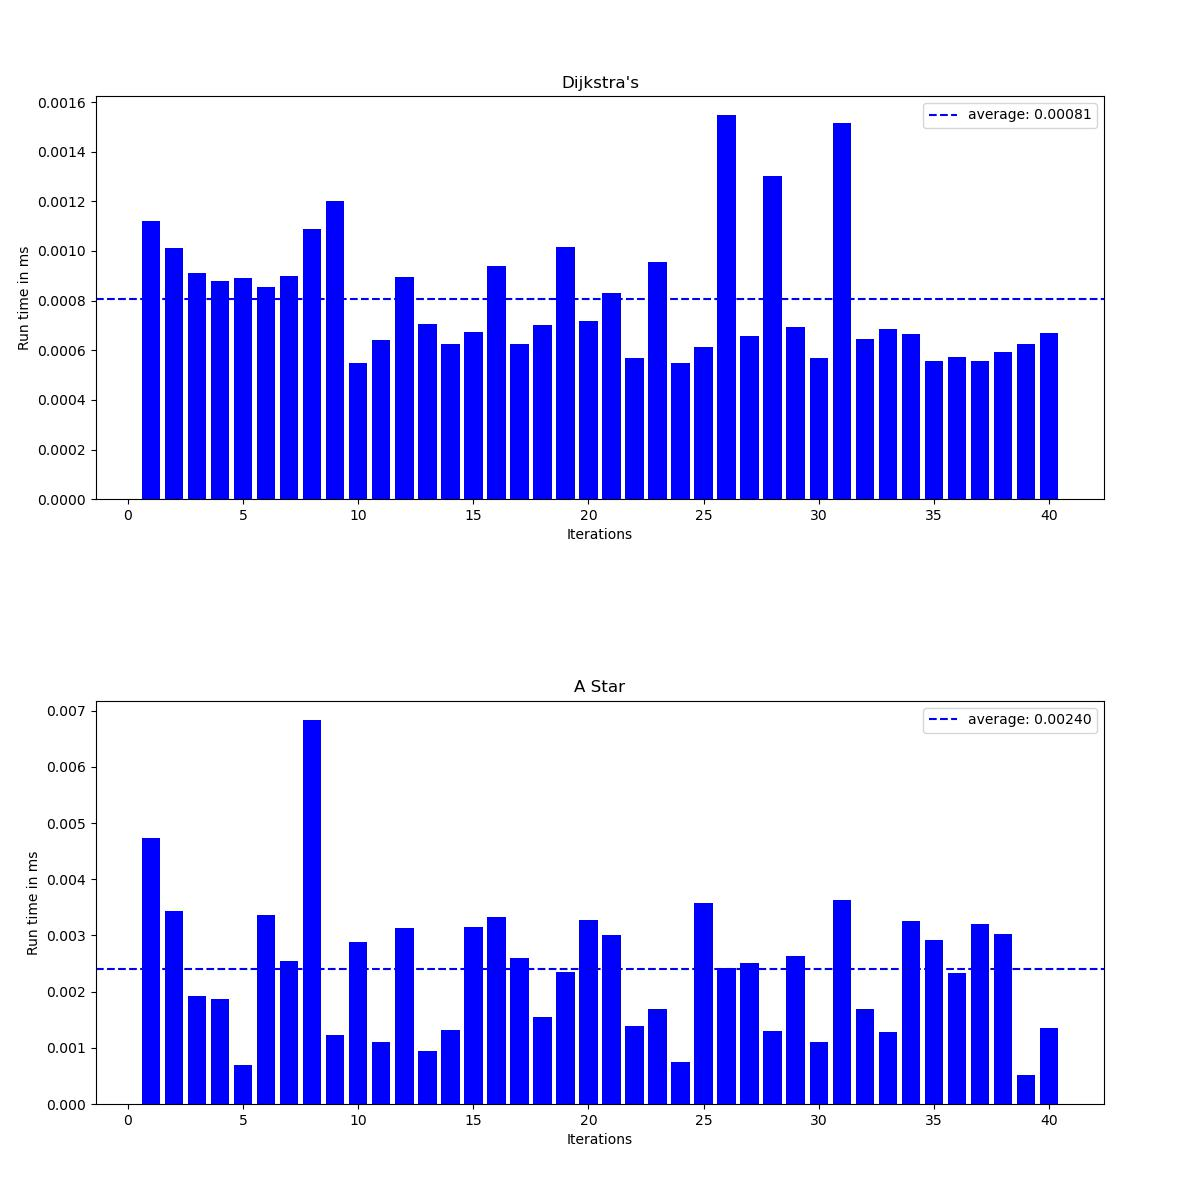
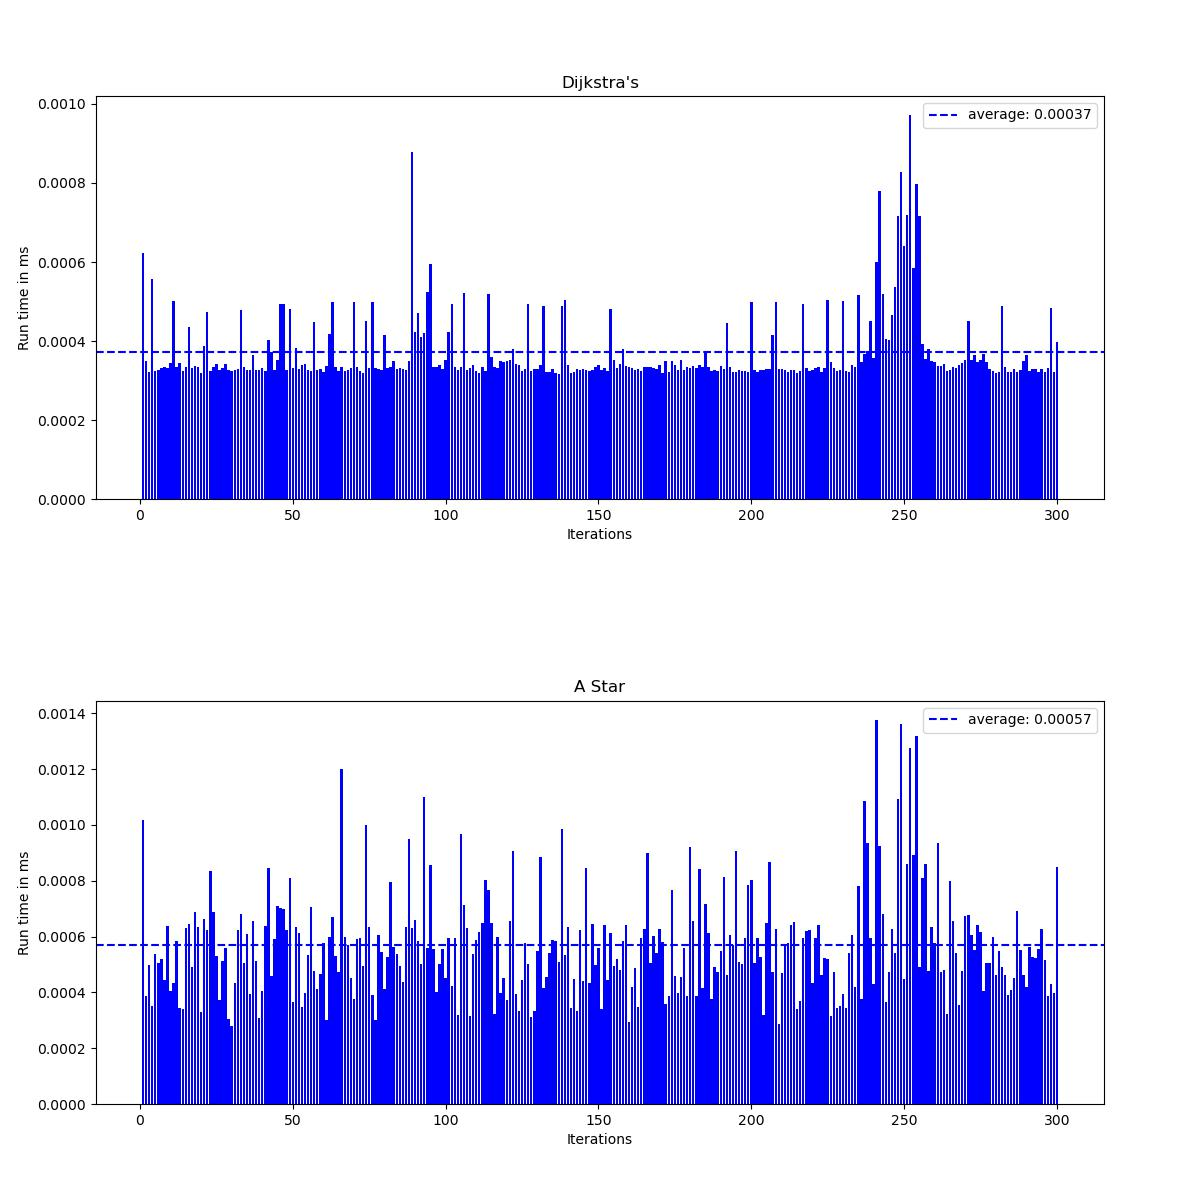
fix: changes of convention and fix experiment

diff --git a/Algorithms/AStar.py b/Algorithms/AStar.py
@@ -18,21 +18,20 @@ class AStar(SPAlgorithm):
         h_table = heuristic_graph.get_heuristic() # Distance list of each node to the end
 
         came_from: dict[int:int] = { source: -1 } # Predecessor dictionary
-        open_set = [source] # Initialize open list & predecessor list
+        open_set = [(0, source)] # Initialize open list & predecessor list
         heapq.heapify(open_set)
 
         # cheapest path from start to n currently known
-        g_score = { k:float('inf') for k,_ in graph.graph.items() }
-        f_score = { k:float('inf') for k,_ in graph.graph.items() }
+        g_score = { k:float('inf') for k in graph.graph.keys() }
+        f_score = { k:float('inf') for k in graph.graph.keys() }
         g_score[source] = 0
         f_score[source] = h_table[source]
 
         while len(open_set) > 0:
-            current = min(f_score, key=f_score.get) # node in open_set with lowest f_score value (maybe make more efficient?)
+            _, current = heapq.heappop(open_set)
 
             if current == dest:
                 path = self.reconstruct_path(came_from=came_from, current=current)
-                came_from[source] = 0
                 return (came_from, path)
         
             neighbors = graph.graph[current]
@@ -43,10 +42,7 @@ class AStar(SPAlgorithm):
                     g_score[n] = tentative_g_score
                     f_score[n] = tentative_g_score + h_table[n]
                     if n not in open_set:
-                        heapq.heappush(open_set, n)
-            # Remove current minimum since it cannot be revisited
-            f_score.pop(current)
-            open_set.remove(current)
+                        heapq.heappush(open_set, (tentative_g_score, n))
         return -1
 
     def __compute_heuristic(self, dest: int, heuristic: dict[int: tuple[float,float]]) -> HeuristicGraph:

diff --git a/main.py b/main.py
@@ -2,6 +2,8 @@ from DataLoader import DataLoader
 from ShortPathFinder import ShortPathFinder
 from Algorithms import AStar, BellmanFord, Dijkstra
 
+from random import sample
+
 if __name__ == "__main__":
 
     data = DataLoader('./Dataset')
@@ -9,17 +11,18 @@ if __name__ == "__main__":
     graph, heuristic = data.graph(), data.heuristic_data()
 
     # A*
-    # finder.set_graph(graph)
-    # finder.set_algorithm(AStar())
-    # finder.set_heuristic(heuristic)
-    
-    # res = finder.calc_short_path(2, 8)
-    # try:
-    #     pred_dict, path = res
-    #     print(pred_dict)
-    #     print(path)
-    # except:
-    #     print(res)
+    finder.set_graph(graph)
+    finder.set_algorithm(AStar())
+    finder.set_heuristic(heuristic)
+
+    src, dest = sample(list(heuristic.keys()), k=2)
+    print(f'Finding {src} -> {dest}')
+    res = finder.calc_short_path(src, dest)
+    try:
+        _, path = res
+        print(path)
+    except:
+        print(res)
 
     # BELLMAN FORD
     # source, dest = 2, 8
@@ -29,16 +32,16 @@ if __name__ == "__main__":
     # print(distances, prev)
 
     # DIJKSTRA
-    source, dest = 2, 8
-    finder.set_graph(graph)
-    finder.set_algorithm(Dijkstra())
-    dist, prev = finder.calc_short_path(source, k=15)
-    print(prev, dist)
+    # source, dest = 2, 8
+    # finder.set_graph(graph)
+    # finder.set_algorithm(Dijkstra())
+    # dist, prev = finder.calc_short_path(source, k=15)
+    # print(prev, dist)
 
-    # TEST
-    n = 8
-    path = []
-    while n != 2:
-        path = [n] + path
-        n = prev[n]
-    print(path)
+    # # TEST
+    # n = 8
+    # path = []
+    # while n != 2:
+    #     path = [n] + path
+    #     n = prev[n]
+    # print(path)

diff --git a/test.py b/test.py
@@ -90,15 +90,15 @@ def experiment_random():
 
 def experiment_london():
 
-    N = 40
+    N = 300
     time_dijkstra, time_astar = [], []
 
-    data = DataLoader('./Dataset')
-    finder = SPF()
+    data, finder = DataLoader('./Dataset'), SPF()
     graph, heuristic = data.graph(), data.heuristic_data()
-    finder.set_graph(graph)
     finder.set_heuristic(heuristic)
-    _nodes = list(graph.graph.keys())
+    finder.set_graph(graph)
+
+    _nodes = list(heuristic.keys())
     for i in range(N):
 
         print(f'Iteration {i+1}')
@@ -109,7 +109,7 @@ def experiment_london():
         finder.set_algorithm(Dijkstra())
 
         start = timeit.default_timer()
-        finder.calc_short_path(source, k=1)
+        finder.calc_short_path(source, k=5)
         end = timeit.default_timer()
 
         time_dijkstra.append(end - start)

diff --git a/ShortPathFinder.py b/ShortPathFinder.py
@@ -11,7 +11,8 @@ class ShortPathFinder:
 
     def calc_short_path(self, source:int, dest:int = None, k:int = None):
         if isinstance(self.algorithm, AStar):
-            if not self.heuristic_data or not dest: return -1 # Cannot compute AStart without heuristic
+            if not self.heuristic_data or not dest: return -1 # Cannot compute AStar without heuristic
+            if dest not in self.heuristic_data.keys(): return -2 # Heuristic table doesn't have all nodes in station table
             return self.algorithm.calc_sp(self.graph, source, dest, self.heuristic_data)
         
         if not k: return -1
